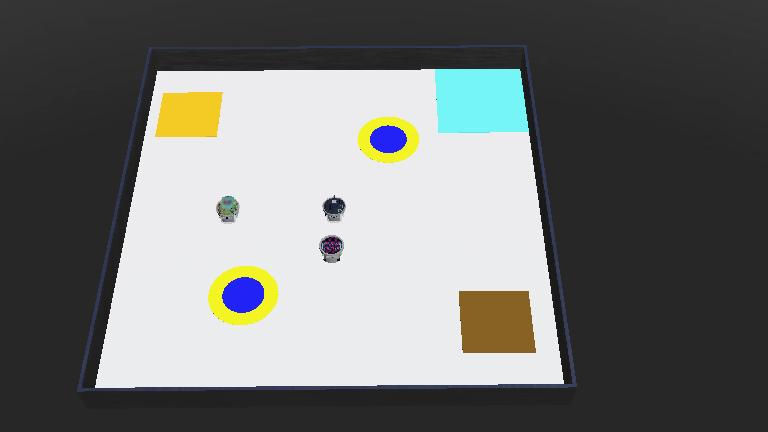
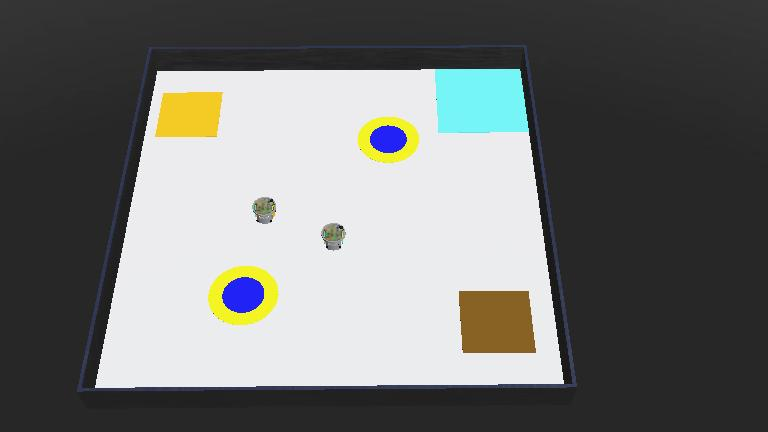
Edited LEDs, load new robots

Changed region(s): [[0.4062, 0.4514, 0.4688, 0.6019], [0.2812, 0.4514, 0.375, 0.5417]]

diff --git a/controllers/Test/Test.py b/controllers/Test/Test.py
@@ -20,6 +20,11 @@ emitter = robot.getDevice('emitter')
 if emitter is None:
     print("Warning: No emitter device found")
 
+camera = robot.getDevice('camera1')
+camera.enable(timestep)
+camera2 = robot.getDevice('camera2')
+camera2.enable(timestep)
+
 led = robot.getDevice('led9')
 # Example simple movement + fake collection
 step_count = 0
